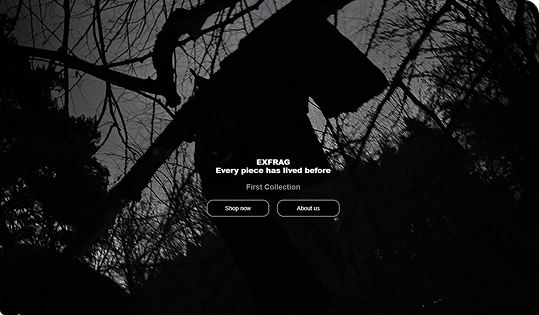
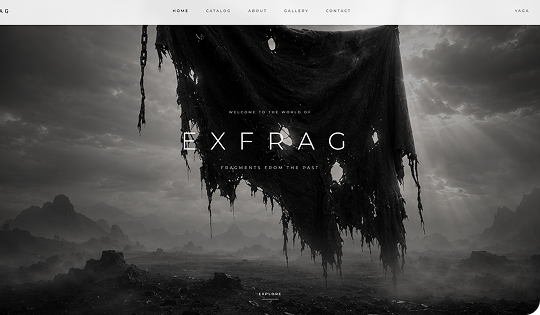
project

diff --git a/src/components/Projects.jsx b/src/components/Projects.jsx
@@ -34,11 +34,10 @@ const Projects = () => {
                     <p className='purple-text'>Featured  Project</p>
                     <h4>EXFRAG brand website</h4>
                     <div className="second-project-cart project-cart">
-                        <p>A brand website for an archive clothing label with a simplified purchase flow. 
-                            Users can browse products, add items to the cart, and choose a preferred social
-                            network to contact the brand directly and complete the order.
-                            The project focuses on product presentation, basic e-commerce logic,
-                            and responsive layout rather than complex payment systems.</p>
+                        <p>A fashion brand website designed for EXFRAG, blending archive aesthetics with a modern digital experience.
+                             Visitors can explore collections, view detailed product pages, browse past releases, and connect with
+                              the brand through an intuitive interface. The project focuses on visual storytelling, responsive design,
+                               and creating a distinctive online presence for an independent clothing label.</p>
                         <a target='blank' href="https://www.exfrag.eu/">visit <GoArrowUpRight /></a>
                     </div>
                 </div>
